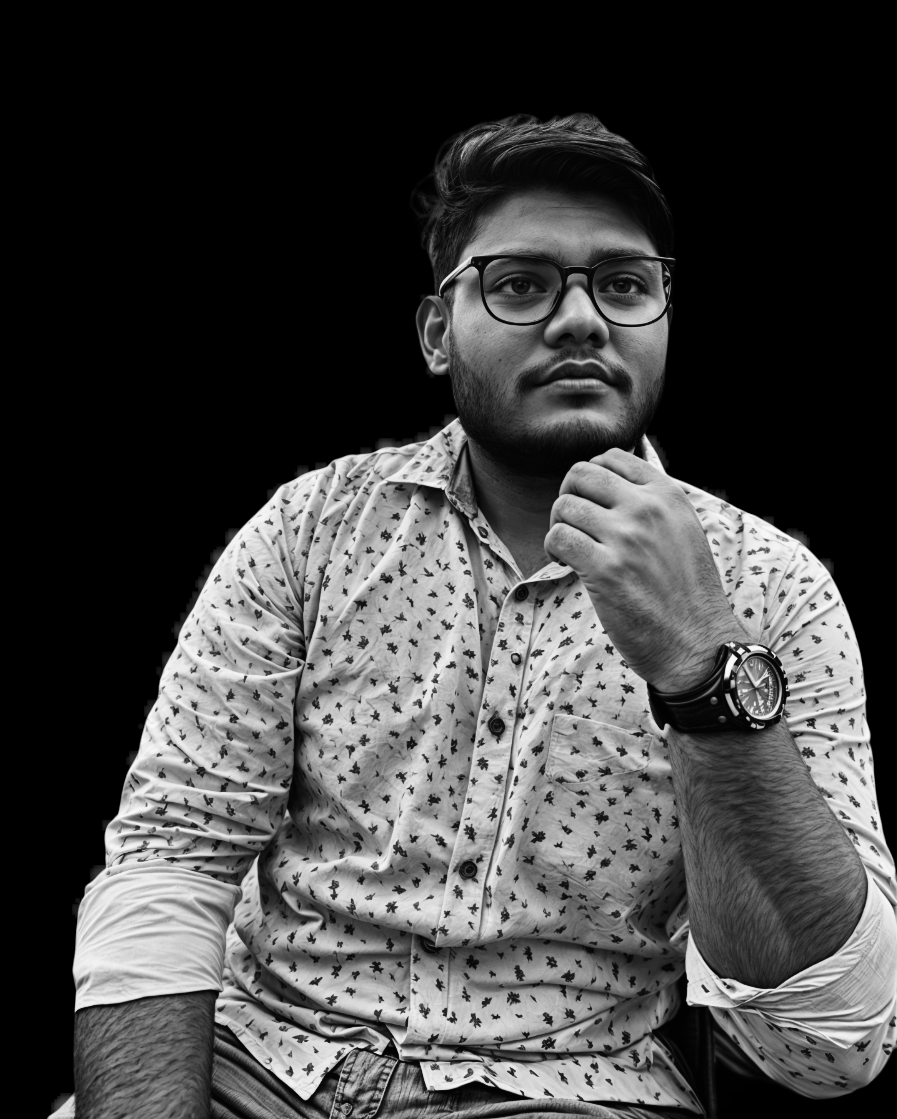
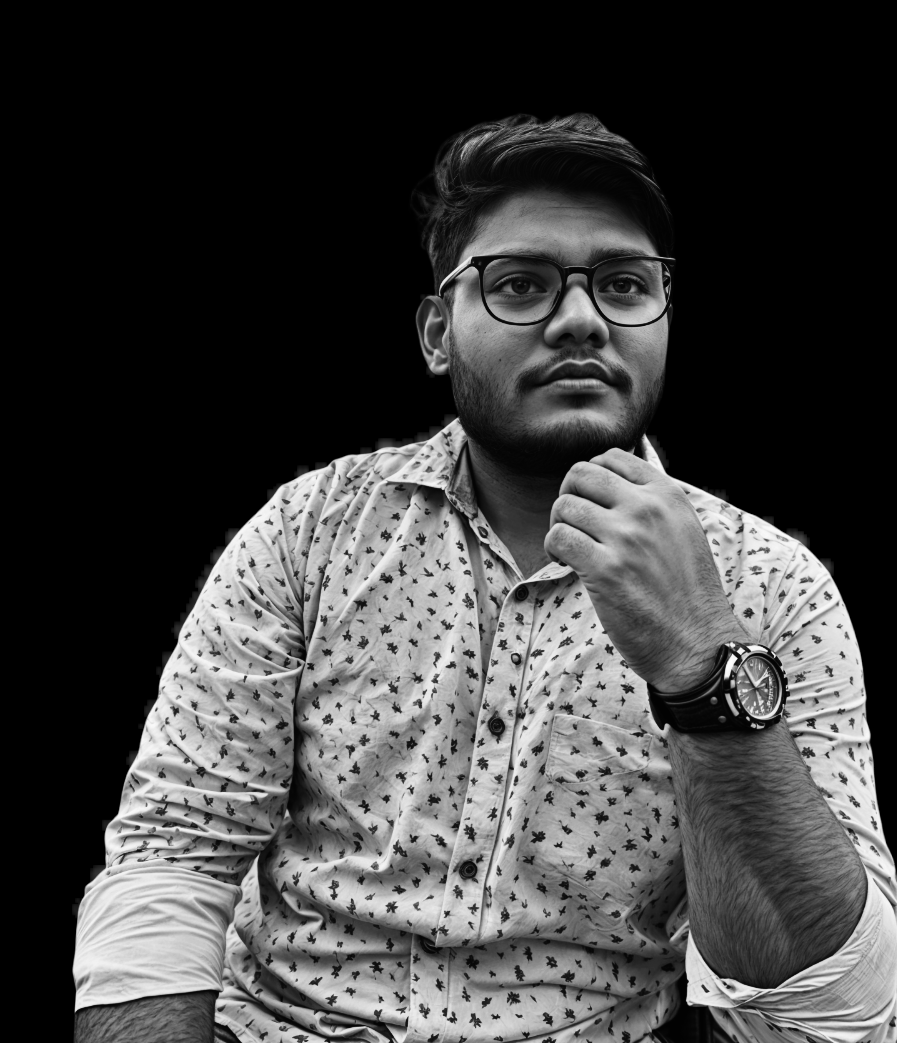
update commit

diff --git a/src/Components/Home.jsx b/src/Components/Home.jsx
@@ -1,20 +1,27 @@
 import React from 'react'
 import Myimg1 from '../assets/Myimg1.png'
+import { Link } from 'react-router-dom'
 import { homeText } from '../Data'
 function Home() {
     return (
         <div className='homeContainer h-[100vh] w-[100%]'>
             <div className="homeSection h-[100%] w-[100%] grid sm:grid-cols-12 gap-10">
-                <div className="hitems col-span-6 overflow-hidden">
-                    <div className="pimg w-[100%] h-[100%]">
-                        <img className='fadein-animation' src={Myimg1} alt="" />
+                <div className="hitems col-span-5">
+                    <div className="pimg w-[100%] h-[100vh] relative">
+                        <img className='fadein-animation h-[100%] relative' src={Myimg1} alt="" />
+                        <div className='homeshadow absolute w-[100%] h-[100%] top-0'></div><div className='homevshadow absolute w-[100%] h-[100%] top-0'></div>
                     </div>
                 </div>
-                <div className="hitems col-span-6 bg-black flex flex-col leading-[130px] items-start pt-[8rem]">
+                <div className="hitems col-span-7 bg-black flex flex-col  items-start pt-[8rem]">
                 {homeText.map((text, index) => (
-                        <span key={index} className='text-white text-[80px] font-bold'>{text}</span>
+                    <div key={index} className='leading-[110px]'>
+                        <span  className='text-white text-[80px] font-bold'>{text}</span>
+                        </div>
                     ))}
+                    <Link to='./about' className='fadein-animation bg-red-500 p-[10px] rounded-lg text-white font-semibold'>More About Me</Link>
+                
                 </div>
+                
             </div>
         </div>
     )

diff --git a/src/App.css b/src/App.css
@@ -51,7 +51,12 @@ body {
 .navb li{
   cursor: pointer;
 }
-
+.homeshadow{
+	background: linear-gradient(to bottom right, rgba(0, 0, 0, 0) 0%,rgba(0, 0, 0, 0) 25%, rgba(0, 0, 0, 0) 50%,rgba(5, 5, 5, 0.733) 75%, rgb(0, 0, 0) 100%);
+}
+.homevshadow{
+	background: linear-gradient(to top, rgb(0, 0, 0) 0%,rgba(10, 0, 0, 0.427) 25%, rgba(0, 0, 0, 0) 50%,rgba(0, 0, 0, 0) 75%, rgba(0, 0, 0, 0) 100%);
+}
 /* Fade in animation */
 .fadein-animation {
     animation: fadeIn 1.5s ease-in-out forwards;
